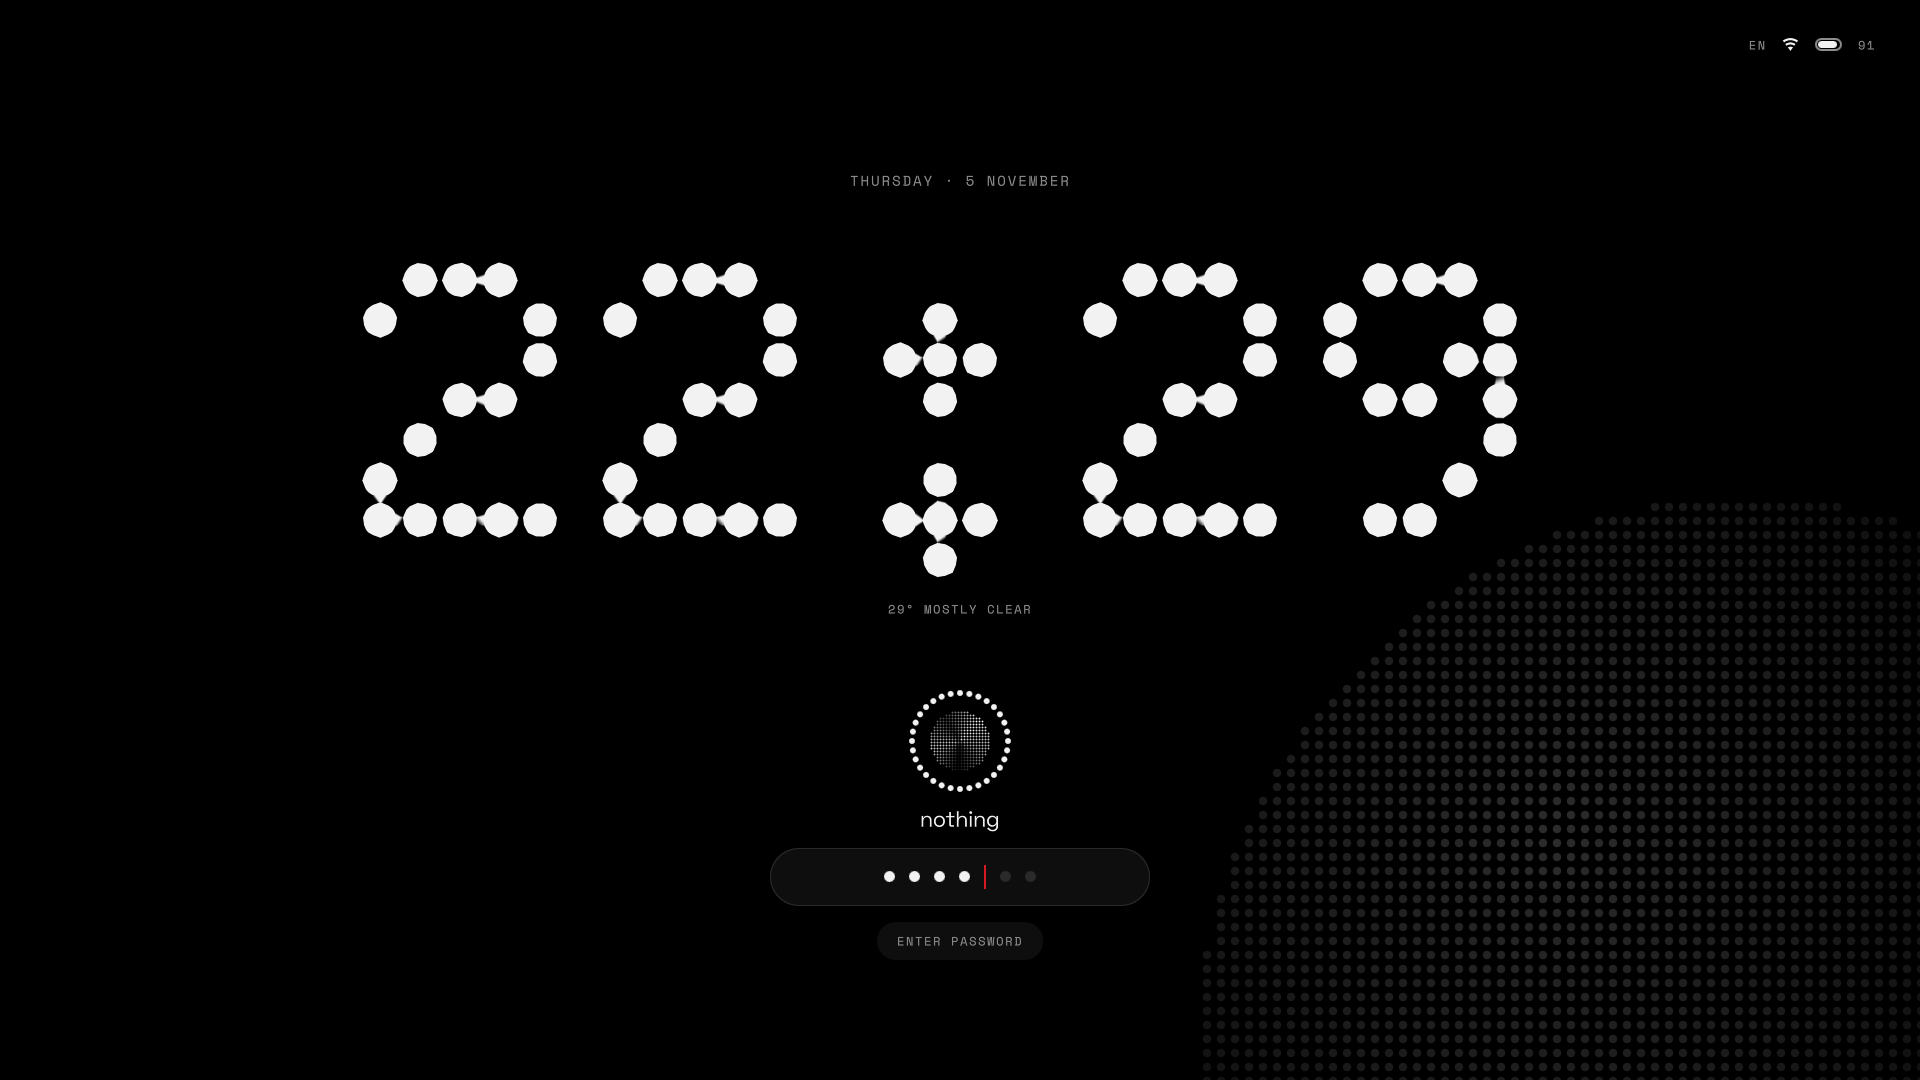
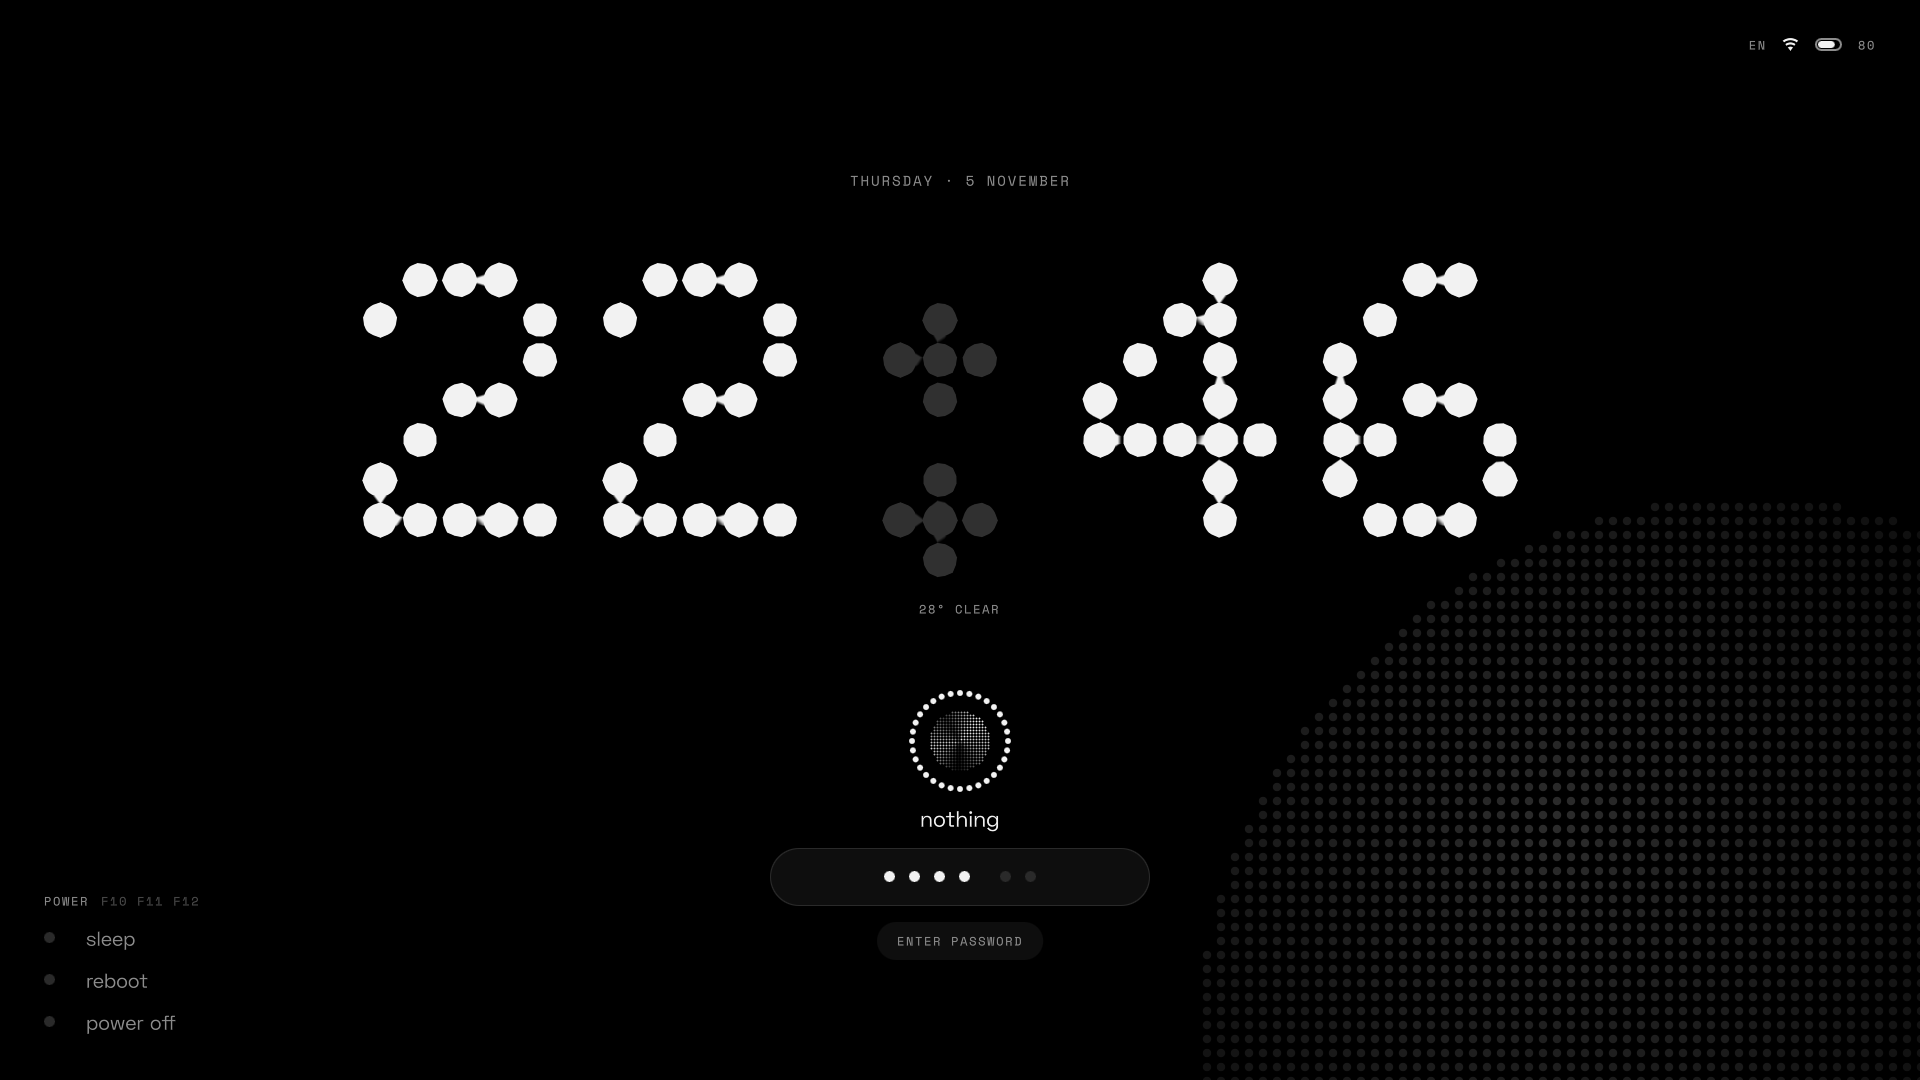
Lock screen: sleep, reboot and power off
The same list as the Lock greeter, by click or F10 F11 F12. Reboot and power off
take a second press within 5 seconds, since a locked session can hold unsaved work,
and holding a key doesn't count as one. Pick moves to lock/ so both can use it, and
the greeter's build turns the lock's list off so it doesn't show twice.

diff --git a/config/quickshell/glyph/lock/LockSurface.qml b/config/quickshell/glyph/lock/LockSurface.qml
@@ -59,6 +59,17 @@ WlSessionLockSurface {
     }
     Timer { running: true; repeat: true; interval: 700; onTriggered: capsCheck.running = true }
 
+    // sleep, reboot and power off, like the Lock greeter's list. Reboot and power off take a second press: a locked session can hold unsaved work
+    readonly property bool power: true // false in the Lock greeter, which has its own list
+    readonly property var powerActs: [["sleep", "suspend"], ["reboot", "reboot"], ["power off", "poweroff"]]
+    property int armed: -1
+    Timer { id: disarm; interval: 5000; onTriggered: root.armed = -1 }
+    function powerAct(i) {
+        if (i > 0 && armed !== i) { armed = i; disarm.restart(); return; }
+        armed = -1;
+        Quickshell.execDetached(["systemctl", powerActs[i][1]]);
+    }
+
     // if the view ever loses the keys (a monitor waking, focus arriving late), take them back: there's nothing else to click on a lock
     Timer { running: !stage.activeFocus; interval: 300; repeat: true; onTriggered: stage.forceActiveFocus() } // lock-focus
 
@@ -71,6 +82,7 @@ WlSessionLockSurface {
             if (e.key === Qt.Key_Return || e.key === Qt.Key_Enter) root.auth.submit();
             else if (e.key === Qt.Key_Escape) root.auth.buffer = "";
             else if (e.key === Qt.Key_Backspace) root.auth.buffer = root.auth.buffer.slice(0, -1);
+            else if (root.power && e.key >= Qt.Key_F10 && e.key <= Qt.Key_F12) { if (!e.isAutoRepeat) root.powerAct(e.key - Qt.Key_F10); }
             else if (e.text && e.text.charCodeAt(0) >= 32) { root.auth.buffer += e.text; root.auth.fail = false; }
             else return;
             e.accepted = true;
@@ -146,14 +158,28 @@ WlSessionLockSurface {
             }
             Lb { visible: root.bat.isLaptopBattery; anchors.verticalCenter: parent.verticalCenter; text: Math.round(root.bat.percentage * 100) }
         }
-        Row {
-            visible: Theme.state.unread > 0
-            opacity: root.ph(0.45, 0.85)
+        Column {
             x: 44
             anchors { bottom: parent.bottom; bottomMargin: 44 }
-            spacing: 16
-            Icon { anchors.verticalCenter: parent.verticalCenter; text: "\u{F009A}"; font.pixelSize: 17 }
-            Lb { anchors.verticalCenter: parent.verticalCenter; text: `${Theme.state.unread} notifications` }
+            spacing: 36
+            opacity: root.ph(0.45, 0.85)
+            transform: Translate { x: -24 * (1 - root.ph(0.45, 0.85)) }
+
+            Row {
+                visible: Theme.state.unread > 0
+                spacing: 16
+                Icon { anchors.verticalCenter: parent.verticalCenter; text: "\u{F009A}"; font.pixelSize: 17 }
+                Lb { anchors.verticalCenter: parent.verticalCenter; text: `${Theme.state.unread} notifications` }
+            }
+            Pick {
+                visible: root.power && root.primary
+                enabled: !root.auth.leaving
+                label: "power"
+                hint: "f10 f11 f12"
+                model: root.powerActs.map((p, i) => i === root.armed ? `press again to ${p[0]}` : p[0])
+                current: root.armed
+                onPicked: i => root.powerAct(i)
+            }
         }
 
         Column {

diff --git a/config/greeter/greeter.qml b/config/greeter/greeter.qml
@@ -4,7 +4,6 @@ import Quickshell.Io
 import Quickshell.Services.Greetd
 import qs
 import "lock"
-import "greeter"
 
 // the Lock greeter, for greetd: the lock screen's own view (lock/LockView, built by install.sh from LockSurface),
 // with session, user and power on the left. greetd checks the password; outside greetd it only shows the look

diff --git a/config/quickshell/glyph/lock/Pick.qml b/config/quickshell/glyph/lock/Pick.qml
@@ -2,7 +2,7 @@ import QtQuick
 import qs
 import qs.components
 
-// a side list on the login screen: label, key hint, rows with a dot. The picked dot stretches into a pill
+// a side list on the lock and login screens: label, key hint, rows with a dot. The picked dot stretches into a pill
 Column {
     id: root
 

diff --git a/README.md b/README.md
@@ -33,6 +33,7 @@ Recent changes are in the [changelog](CHANGELOG.md).
 | **More color** | A saturation control, Extra Dark, and colors that fade instead of jumping. |
 | **More looks** | Ribbed glass and color dots on the wallpaper, a hazy lock screen, a bar on the right, volume and brightness in the island. |
 | **Two greetd login screens** | The **Lock greeter** has the lock screen's look. The **Dial greeter** brings Nebelung's camera dial and tachometer to greetd, so that look no longer needs SDDM. The original SDDM theme stays available too. |
+| **Power on the lock screen** | Sleep, reboot and power off, by clicking or with `F10` `F11` `F12`. Reboot and power off ask for a second press, so unsaved work in the locked session isn't lost by accident. |
 | **Guided installer** | Menus with tick boxes, a summary before anything changes, `--dry-run` and `--uninstall`. Safe to run again, and it stops with a plain message if a step fails. |
 | **Updates** | System → About counts system updates and new versions of the rice, and updates either from one terminal. `install.sh --update` does the rice too. |
 | **Moving from KDE Plasma** | `install.sh --fix-plasma` copies Wi-Fi passwords out of KDE Wallet so they connect at boot. |
@@ -88,11 +89,14 @@ Developed on one laptop: AMD CPU, NVIDIA GPU, one 1080p screen, CachyOS, Hyprlan
 - `--fix-plasma` on throwaway network profiles, with a stand-in for KDE's wallet tool.
 - `--fix-plasma` on the second laptop: its Wi-Fi now connects by itself after a reboot, with no password prompt.
 
+- The lock screen's power list on a real session lock, with a stand-in for `systemctl`: keys, clicks, the second press, and holding a key not counting as one.
+
 **Not tested yet, so tell me if something breaks:**
 
 - A fresh install choosing the Lock greeter from this repository's script. The development laptop's Lock greeter was an earlier copy.
 - The **update everything** button on a real update, and the pacman notice during a real `pacman` run. The notice's script and the hook's text were tested, but not pacman running it.
 - A real `yay` update through the update button.
+- Really sleeping, rebooting or powering off from the lock screen.
 - Whether `--fix-plasma` read the passwords from a real KDE Wallet, or they were typed. The format comes from KDE's source code.
 - Saving a Wi-Fi password typed into the agent during a real connection. The save itself was tested on a throwaway profile.
 - The lock screen's keyboard long term on the laptop where it failed. It worked again once that laptop was updated, but the problem couldn't be reproduced, so the safeguard isn't proven to be the reason.
@@ -128,7 +132,7 @@ Developed on one laptop: AMD CPU, NVIDIA GPU, one 1080p screen, CachyOS, Hyprlan
 | **Cal** | calendar, focus timer | click the clock |
 | **Buds** | Nothing / CMF earbuds: battery, ANC | |
 | **Power** | power menu | `Super` `Esc` |
-| **Lock** | lock screen | `Super` `L` |
+| **Lock** | lock screen, with sleep, reboot and power off | `Super` `L` |
 | **Login** | Lock greeter, Dial greeter, or the original SDDM dial theme | |
 | **Style** | where the color comes from: Nothing, the wallpaper through a Material You variant, or a palette (Catppuccin, Rosé Pine, Gruvbox, Nord, Dracula, Tokyo Night, Everforest, Kanagawa) | |
 | **Rice** | shell switcher, if Demon's Shot is installed too | `rice switch <name>` |

diff --git a/CHANGELOG.md b/CHANGELOG.md
@@ -4,6 +4,11 @@ The newest changes come first. To get them, press **update everything** in Syste
 
 ## November 2026
 
+### Lock screen
+
+- New: sleep, reboot and power off on the lock screen, in the same list as the Lock greeter. Click them or press `F10` `F11` `F12`. Reboot and power off ask for a second press within 5 seconds, because the locked session can hold unsaved work.
+- The lock takes the keyboard back if it ever loses it. This was added after typing failed on one laptop.
+
 ### File managers
 
 - New: Dolphin is a choice alongside Thunar and Strata, in the installer's Custom setup, in System → Apps → files, and with `install.sh --file-manager`.
@@ -80,7 +85,3 @@ The newest changes come first. To get them, press **update everything** in Syste
 - The date and status lines on home are readable over a wallpaper.
 - The VPN panel says when Clash Verge isn't installed.
 - Super+W and Super+E show a notification if no default app is set.
-
-### Lock screen
-
-- The lock takes the keyboard back if it ever loses it. This was added after typing failed on one laptop.
